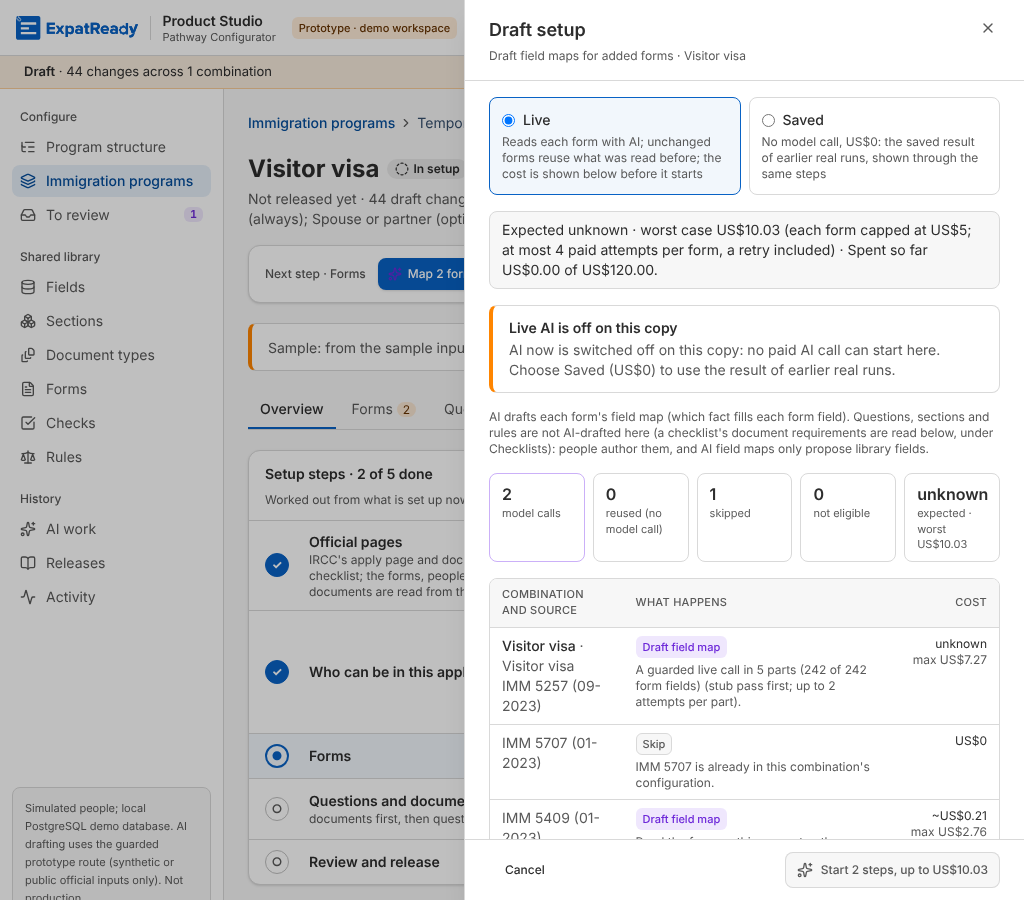
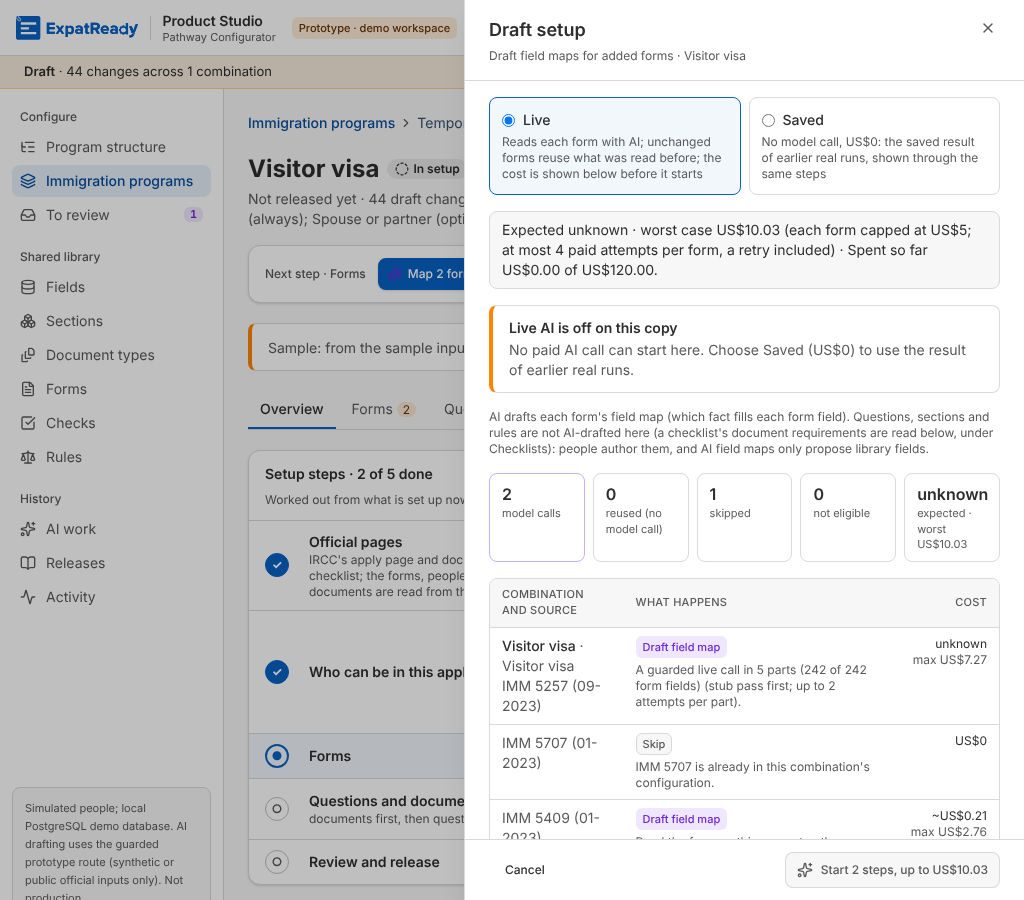
forms: C11.8 — break m1: the Forms tab's Draft with AI dialog offers no live start on a live-off copy; review m3: the notice says it once; review and break reports
Claude-Session: https://claude.ai/code/session_01MXNda9C82EkcbCk4EQvfnS

Changed region(s): [[0.5, 0.3733, 0.9375, 0.4356]]

diff --git a/ai-workers/problem-1-pathway-setup-and-form-filling/prototype/studio/web/src/pages/sources.tsx b/ai-workers/problem-1-pathway-setup-and-form-filling/prototype/studio/web/src/pages/sources.tsx
@@ -8,6 +8,7 @@ import { Link, useSearchParams } from "react-router-dom";
 import { Play, Recycle, ScanLine, Sparkles } from "lucide-react";
 import { api, ApiError, useAction, useApi, useSessionView, useToast } from "@/lib/api";
 import { Button, Dialog, Field, Notice, Pill, Select } from "@/components/ui/controls";
+import { LIVE_OFF_NEXT } from "@/components/ai-launch";
 import { ModePill, StatusPill } from "@/pages/combination";
 import { fmtWhen } from "@/components/status";
 import { useQuery, useQueryClient } from "@tanstack/react-query";
@@ -131,7 +132,7 @@ function DraftDialog({ a, onClose }: { a: Attachment; onClose: () => void }) {
   // carries the same cost check: over a limit, the cost warning first (Continue or Cancel), as on Draft setup. The plan is
   // made when Live is chosen, so the click opens the warning at once. The server checks everything again.
   const scope = { kind: "source" as const, ids: [a.id] };
-  const plan = useQuery<{ cost_check: CostCheck; run_key: string; plan_sha256: string }>({ queryKey: ["ai-plan", "source", a.id, "LIVE", true], queryFn: () => api("/ai/plan", { method: "POST", json: { scope, mode: "LIVE", draftAgain: true } }), enabled: mode === "live", staleTime: 0, retry: false });
+  const plan = useQuery<{ cost_check: CostCheck; run_key: string; plan_sha256: string; live?: { on: boolean; blocked: boolean } }>({ queryKey: ["ai-plan", "source", a.id, "LIVE", true], queryFn: () => api("/ai/plan", { method: "POST", json: { scope, mode: "LIVE", draftAgain: true } }), enabled: mode === "live", staleTime: 0, retry: false });
   const cost = useCostGate();
   // One launch key per dialog: a retry after Continue (or a double click) returns the same run, never a second one.
   const [key] = React.useState(() => (globalThis.crypto?.randomUUID?.() ?? `k-${Date.now()}-${Math.random().toString(36).slice(2)}`));
@@ -156,13 +157,17 @@ function DraftDialog({ a, onClose }: { a: Attachment; onClose: () => void }) {
     } finally { setBusy(false); }
   };
   const l = opts.data?.ledger;
+  // C11.8 (P-175, break m1): on a copy without the live switch a live draft that would call the model is not offered here
+  // either (as Draft setup); the server refuses it at the door.
+  const liveOff = mode === "live" && plan.data?.live?.blocked === true;
   return (
     <Dialog open onOpenChange={(o) => !o && onClose()} title={`Draft the field map of ${a.edition}`} description="The AI reads the list of the form's fields (public official content only) and proposes, for every form field, whose fact fills it and which library field it is. People decide every proposal before anything reaches the draft."
-      footer={<><Button variant="ghost" onClick={onClose}>Cancel</Button><Button onClick={() => void start()} busy={busy} disabled={nothingToStart(mode) || (mode === "live" && plan.isFetching)} aria-describedby={nothingToStart(mode) ? "draft-none" : undefined} data-draft-start data-mode={mode} data-options-loaded={opts.isSuccess || opts.isError ? "true" : "false"} data-start-ready={!busy && (opts.isSuccess || opts.isError) && !(mode === "live" && plan.isFetching) && !nothingToStart(mode) ? "true" : "false"}><Play /> {mode === "replay" ? "Use Saved (US$0)" : "Start Live"}</Button></>}>
+      footer={<><Button variant="ghost" onClick={onClose}>Cancel</Button><Button onClick={() => void start()} busy={busy} disabled={nothingToStart(mode) || liveOff || (mode === "live" && plan.isFetching)} aria-describedby={nothingToStart(mode) ? "draft-none" : undefined} data-draft-start data-mode={mode} data-options-loaded={opts.isSuccess || opts.isError ? "true" : "false"} data-start-ready={!busy && (opts.isSuccess || opts.isError) && !(mode === "live" && plan.isFetching) && !nothingToStart(mode) ? "true" : "false"}><Play /> {mode === "replay" ? "Use Saved (US$0)" : "Start Live"}</Button></>}>
       <div className="space-y-3 text-sm">
         <label className="flex items-start gap-2"><input type="radio" checked={mode === "live"} onChange={() => setMode("live")} className="mt-1" disabled={liveClosed} /><span>{liveClosed ? <><b>Live</b>: not open yet for a form approved in the product (only for files on the official list); use Saved when there is one.</> : <><b>Live</b> through the guarded route: a safety check first, then Claude Opus 5.5, up to US$5 for this run. {/* Break 3 m2: what is left is the smaller of the cap's and the wave's room: both are named. */}{l ? `Spent so far US$${l.committed_usd.toFixed(2)} of the US$${l.cap_usd.toFixed(2)} experiment cap${l.wave ? ` · ${l.wave.name}: US$${l.wave.spent_usd.toFixed(2)} of US$${l.wave.cap_usd.toFixed(2)}` : ""}; US$${Math.max(0, l.remaining_usd).toFixed(2)} left before a cap.` : ""} {opts.data && !opts.data.key_present ? <span className="text-text-danger">The API key file is missing: a live call will be refused.</span> : null}</>}</span></label>
         <label className="flex items-start gap-2"><input type="radio" checked={mode === "replay"} onChange={() => setMode("replay")} className="mt-1" disabled={!saved.length} /><span><b>Saved</b> (no model call, US$0): an earlier real answer for this same form, checked with today's rules before use and labelled wherever it is shown.{saved.length ? <Select className="mt-1" value={runFile} onChange={(e) => setRunFile(e.target.value)}>{saved.map((r) => <option key={r.file} value={r.file}>{r.run_id} · {r.at?.slice(0, 16)} · paid US${r.cost_usd?.toFixed(2)} then{r.recheckable ? " · re-checked first" : r.rechecked ? " · re-checked" : ""}</option>)}</Select> : <span className="block text-xs text-text-muted">No saved AI answer for this form yet.</span>}</span></label>
         {opts.isSuccess && nothingToStart(mode) ? <p id="draft-none" className="text-sm" role="status" data-draft-none>Nothing can start for this form yet: {liveClosed ? "Live is not open for it" : "it has no Saved result, so choose Live"}{liveClosed && !saved.length ? ", and it has no Saved result" : ""}.</p> : null}
+        {liveOff ? <Notice tone="warn" title="Live AI is off on this copy">{LIVE_OFF_NEXT}</Notice> : null}
         {cost.dialog}
         <Field label="Job" hint="Inputs: this form's inventory only (allowlisted); expected answers and family values are screened out of the prompt."><code className="mono block rounded bg-surface px-2 py-1">{opts.data?.job_id}</code></Field>
       </div>

diff --git a/ai-workers/problem-1-pathway-setup-and-form-filling/prototype/studio/web/src/components/ai-launch.tsx b/ai-workers/problem-1-pathway-setup-and-form-filling/prototype/studio/web/src/components/ai-launch.tsx
@@ -12,6 +12,8 @@ import { Spinner } from "@/components/ui/spinner";
 import { cn } from "@/lib/utils";
 import { useCostGate } from "@/components/cost-warning";
 import { COST_WORDS } from "../../../contracts/cost-check";
+/** C11.8 (review m3): the live-off notice under its title "Live AI is off on this copy": what cannot start and the free choice. */
+export const LIVE_OFF_NEXT = "No paid AI call can start here. Choose Saved (US$0) to use the result of earlier real runs.";
 
 export type AiScope = { kind: "catalogue" | "program" | "combination" | "source"; ids: string[]; label?: string };
 const MODES = [
@@ -72,7 +74,7 @@ export function AiLaunchDialog({ scope, onClose, initialMode = "LIVE" }: { scope
           ))}
         </fieldset>
         {p ? <p className="rounded-lg border border-border bg-surface px-3 py-2 text-sm" data-cost-line>{mode === "LIVE" ? <>Expected {p.totals.expected_usd === null ? "unknown" : `US$${p.totals.expected_usd.toFixed(2)}`} · worst case US${p.totals.worst_usd.toFixed(2)} (each form capped at US${p.per_run_cap_usd}; at most {p.max_paid_attempts_per_form} paid attempts per form, a retry included) · Spent so far US${p.ledger.committed_usd.toFixed(2)} of US${p.ledger.cap_usd.toFixed(2)}.</> : mode === "REPLAY" ? "Saved: no model call, US$0." : "Stub pass: no network, no cost, no AI content."}</p> : null}
-        {liveOff ? <Notice tone="warn" title="Live AI is off on this copy">{p.live.why}</Notice> : null}
+        {liveOff ? <Notice tone="warn" title="Live AI is off on this copy">{LIVE_OFF_NEXT}</Notice> : null}
         {p ? <p className="text-xs text-text-muted">{p.capability_note}</p> : null}
         {plan.isLoading ? <Spinner label="Working out what would run" /> : plan.isError ? <Notice tone="danger" title="The plan could not be made">{(plan.error as Error).message}</Notice> : p ? (
           <>

diff --git a/ai-workers/problem-1-pathway-setup-and-form-filling/product/screens/C11.8-run-trust/review-2026-11-02.md b/ai-workers/problem-1-pathway-setup-and-form-filling/product/screens/C11.8-run-trust/review-2026-11-02.md
@@ -1,0 +1,52 @@
+# C11.8 run trust — review of claude/inspiring-fermi-8kyot6 at 8bc48cf1 (base 55376830)
+
+Reviewer: a fresh agent that did not build this. 2 Nov 2026. Own copies `rv118a` :4455 and `rv_cw`/`rv_co` :4456 (fake launcher, no live switch, scratch ledger, US$0); all stopped. Journey test: `journey-test-reviewer-2026-11-02.md` (9.0/10, pass). Earlier review of the prior build: `review.md` (m1–m4).
+
+**Verdict: Block** (one Major: spend-guard test coverage silently dropped; the product code is sound). Rest: Minors.
+
+## What I ran
+* `check_forms_c118_acceptance.ts` on my copy: **18 pass, 0 fail, 2 skipped** (AT-9c, AT-10a), as claimed. `check_forms_c118_words.ts` 7/7.
+* `check_cost_override.ts` (the builder could not run it): on :4456, own scratch ledger: **57 pass, 0 fail, 18 skipped**, exit 0. `check_cost_warning_browser.cjs`: **6 pass, 0 fail, 10 skipped**.
+* Graph `--check`: G1 0 · G2 0 · G3 7 · G4 0 · G5 0 · G6 3 (G3/G6 not from this item). The new test is picked up by `run-suites.sh` through its usage line (matches the regex).
+* Browser: Visitor visa › Map 2 forms › Draft setup at 1440, 1024, 512 px (200 % zoom), keyboard on the radios; failed run page `/ai/:id` and its Retry.
+
+## Previous minors, each really fixed
+* **m1 retry door: fixed.** `Ai.retry` refuses a LIVE field-map step that would call the model (`ai.ts` last check before the transaction; 409 in words, nothing queued, no attempt counted). AT-3b proves both sides (live step refused with the switch off; a free stub step still retried 201). Cost refusals keep their own words (door is last).
+* **m2 labels for field maps only: fixed.** `runs.ts nextOf` returns "Retry the failed step" / "Decide the step waiting for you" only for `draft_field_maps` and only for FAILED / NEEDS_PERSON; BLOCKED and every other operation keep "See the details" or their own branch.
+* **m3 notice names Saved: fixed.** Notice and API say "Choose Saved (US$0) to use the result of earlier real runs"; no "rules only".
+* **m4 latest attempt and page line: fixed.** After one Retry on my copy the run view named attempt 2's failure and the AI work page shows "What went wrong" (screenshot `run-failed.png`); the unit check covers latest-attempt, retried-then-done (no error) and two forms.
+
+## Answers to the lead's questions
+**Can any path still queue, reserve or use a Continue for a live field-map model call on a copy without the switch? No.**
+* Every creator of a field-map job goes through `launch()` (`launchSource` → `launch`) or `retry()`; the other `draftingJob.create` sites are STUB/LOCAL/REPLAY or other operations (finder, Who, QD, PQR, checklist).
+* The door sits after the cost refusals and before the transaction, where the Continue is used and the batch/jobs are made. I checked on :4455: LIVE + draft again → 409 "switched off", no batch added.
+* Behind it, `launchOnce` still refuses live without the switch (`sources.ts:467`), so a step already queued earlier cannot spend either.
+* A Continue is still **recorded** by `POST /ai/overrides` with the switch off (AT-9 asserts it); it is never used or charged, and expires. Fine for the done-when (ledger spend unchanged), noted as a Minor.
+
+**Is a free path wrongly refused? No.** On :4455 with the switch off: LIVE without "draft again" on a form with a saved answer: plan `blocked:false`, launch 201, ran Done at US$0; library reuse and Saved (REPLAY) plans `blocked:false`; the Stub pass starts. A form whose parts all have saved answers has worst 0 and is not refused (the runner uses the saved parts and makes no call). A mixed catalogue scope (some saved, some needing a call) is refused whole in Live; the person picks Saved. Acceptable.
+
+**Test gating: this is a Major, not a Minor.**
+* About 18 PASS-equivalents in `check_cost_override.ts` (base had 68 checks, now 57 run) and 10 of 16 in the browser check become SKIP, which exit 0; AT-9c and AT-10a in the acceptance pack skip too. Result: **no CI test now runs** the queued run that carries a Continue, the Continue used once under a double click or two starts, the retry rules under a Continue (room left, other person, the US$132 ceiling), the Continue audit line, or the cost warning dialog Continue/Cancel/Escape/focus in a browser. These are the P-179 / P-194 spend-safety rules (a wrong rule here costs real money); today none of their tests would fail if the rule were removed.
+* P-192 (founder, 31 Oct) explicitly allows pairing `STUDIO_AI_LIVE=approved` with the fake launcher in a test's own start/usage line; 20+ checks do it (e.g. `check_ai_launch_paths.ts:45`, `check_forms_s4_runs.ts`), and the previous build of this row did it in `check_cost_warning_browser.cjs` (prior review: safe, queue held, scratch ledger, field-map calls only). The session rule "never set a STUDIO_*_LIVE switch" governs what the builder types, not what a check's own start line does; I see no reason the tests must lose coverage for it.
+* Fix: in both checks' own `isolated.sh … start`, pass `STUDIO_AI_LIVE=approved STUDIO_FAKE_LAUNCHER=<fixture>` (keep `STUDIO_HOLD_QUEUE=1` and the scratch ledger) so STANDIN is true; keep the door checks in the acceptance pack (which already covers them without the switch). The lead can downgrade this to a Minor only by recording a dated follow-up row that restores it; I would not accept a permanent SKIP.
+* Also unverified: the STANDIN branches of both checks have not run together with this door (the builder could not, I may not set the switch). Expect CI's first run with the pairing to be the proof.
+
+**State cascade in `check_cost_override.ts` when not STANDIN: sound, with one weak assertion.** I ran it green. After each `door()` the unused Continue is expired in the scratch ledger, so later sections that count unused Continues, held US$ or "this person's Continue" see none; later sections write their own ledger lines or Continues and do not depend on the skipped runs (`job1`, `batch1`, `batch3` live only inside the gated blocks). Weak spots: (1) "one click is one run: the same Continue again is refused" now asserts `/expired/` when not STANDIN (the Continue was expired by `door()`), so it tests expiry, not single use, under a "used" name; (2) "Continues whose runs were stopped hold nothing" is then trivially true (no Continue was used). Both are vacuous, not wrong; both disappear with the Major's fix.
+
+## Blocker
+None.
+
+## Major
+**M1. Spend-guard coverage turned into SKIPs** (above). `tests/check_cost_override.ts:50-62` (STANDIN gates), `tests/check_cost_warning_browser.cjs:60-80`, acceptance AT-9c/AT-10a. Fix as above.
+
+## Minor
+* **m1.** AT-8 text says "here by the switch first" but the code refuses by the cost limit first (door is after the cost refusals); the assertion only checks `status >= 400` when not STANDIN, so it does not pin which refusal. Pin `/limit|cap|Continue/` in both modes.
+* **m2.** `POST /ai/overrides` records a Continue with the switch off. Harmless (unused, 10 minutes), but the Continue endpoint could say "AI is switched off" too so no one holds a Continue for a start that cannot run. Not required by the done-when.
+* **m3.** Words: "AI now is switched off on this copy" repeats the notice title "Live AI is off on this copy" right above it; "AI now" is the finder's phrase, kept for consistency. Say it once.
+* **m4.** The failed-run error text from the fake launcher ends with a raw newline (`what` = "...US$0).\n"); trim step messages in `errorWhat`. On the AI work page the count line "0 done, 1 failed, 0 cancelled" still shows under "What went wrong"; harmless.
+* **m5.** `ai.ts` retry door uses `RUN_CAP_USD` when the step's target is not in the plan; safe (refuses), but a LIVE step with no plan target and a full-reuse form would be refused too. Edge only.
+
+## What I could not check
+A real screen reader; an intended user's unaided walk (D17/D20 stay with the founder); any live-on behaviour (never set the switch): the queued-with-Continue paths, `launchSource` under a live copy, the web Continue dialog; CI on this commit.
+
+**Verdict: Block** — fix M1 (restore the spend-guard checks via the P-192 pairing in the two checks' own start), then Approve.

diff --git a/ai-workers/problem-1-pathway-setup-and-form-filling/product/screens/C11.8-run-trust/break-report-2026-11-02.md b/ai-workers/problem-1-pathway-setup-and-form-filling/product/screens/C11.8-run-trust/break-report-2026-11-02.md
@@ -1,0 +1,57 @@
+# C11.8 break report, 2 Nov 2026
+
+Target: branch `claude/inspiring-fermi-8kyot6` at 8bc48cf1 (base 55376830). Copy `brk118` on :4457, fake launcher, `STUDIO_AI_LIVE` unset, scratch ledger (`P2_LEDGER_DIR`), US$0. Nothing priced was clicked. Copy stopped at the end. Code untouched.
+
+**Verdict: the door holds.** No Blocker, no Major. Four Minors; none lets a paid call or a charge through.
+
+## Evidence of "nothing charged"
+* Fake launcher log: 0 lines with `"mode":"live"`, 20 `"mode":"stub"` (all from my own stub runs).
+* Scratch ledger: no `reserve` or `override_use` line from any refused attempt. I seeded one `reserve` line (116.4) and recorded one Continue on purpose, then emptied the file; it ended 0 bytes.
+* `ai_batch` / `drafting_job` counts did not move after any refusal (checked after each batch of attempts).
+* `GET /api/session` still says `ai: { live: false, launcher: "stand-in" }` after `?ai=live`, `?STUDIO_AI_LIVE=approved`, an `x-ai-live` header, and POST/PATCH `/session` (both 404).
+
+## Minor
+**m1. The source-level "Draft the field map" dialog still offers an enabled "Start Live" on a live-off copy.**
+* Do: open `/c/<Visitor visa>/forms?draft=<IMM 5257 attachment>`, choose Live (radio), read the footer. Do not click Start.
+* Expected (door rule, J2 step 10): Live's Start not offered, with the switch-off words.
+* Actual: "Start Live" enabled, `disabled={nothingToStart(mode) || (mode==="live" && plan.isFetching)}`. The only warning is the old red "The API key file is missing: a live call will be refused", not the switch. The server still refuses the click (409), so no money moves. Screenshot: `.../scratchpad/shots/live-selected.png`.
+* Where: `web/src/pages/sources.tsx:161` (the plan it already fetches at :133 carries `live.blocked`, unused).
+* Why it matters: this is the other person path that reaches `launchSource` and it was left on the old behaviour; the one rule is applied only in `ai-launch.tsx`.
+
+**m2. A Continue (P-179) can be recorded for a start that can never run, with an audit line saying so.**
+* Do: seed the scratch ledger near the cap; `POST /api/ai/plan` (source IMM 5257, LIVE, draftAgain) shows `live.blocked: true` and `cost_check.can_continue: true`; then `POST /api/ai/overrides` as user-A with that plan's run_key.
+* Expected: nothing recorded for a start the door will refuse (or the same 409 words).
+* Actual: 201, `override` line in the ledger, audit event `ai_override` ("chose Continue past experiment ... worst case US$7.27"). The following live start is refused 409 and the Continue is left unused (no `override_use`: that part holds), but it sits valid for 10 minutes and the activity log claims a person continued past the cap.
+* Where: `api/src/ai.ts` `override()` (~line 350) has no `aiLive()` check. In the m1 dialog a person can reach it by clicking Start Live over the cap, then Continue.
+
+**m3. A failed step's next step says "Retry the failed step" when Retry is refused.**
+* Do (a): fail a step 3 times (stub fails on purpose; set `attempt=3` by SQL). `GET /api/runs/<id>` → `error.next` = "Retry the failed step". `POST /ai/batches/<id>/retry` → 400 "reached 3 attempts; needs a person".
+* Do (b), by reading: a LIVE failed step on a live-off copy with no saved answer gets the same label, and `ai.tsx:85` shows "Retry N failed step" (`j.retryable` knows nothing of the switch); the click is a 409. With a valid saved answer the run correctly says "Use Saved for IMM 5257 (US$0)" instead (I saw this).
+* Where: `api/src/runs.ts:120` (label chosen from status only); `web/src/pages/ai.tsx:85`.
+
+**m4. A mixed failed batch cannot retry its free step, and the failure text repeats.**
+* Do: failed LIVE field_map step (plan worst 1.5) plus a failed REPLAY step in one batch, no switch; `POST .../retry` → 409 switched off for the whole retry; nothing queued. The free step is stuck until the paid one is dealt with. Rare (needs an older live batch on a copy whose switch is now off). `api/src/ai.ts:505` uses `redo.some(...)`.
+* Also: the "What went wrong" line is the step's whole message, so a 5-part failure prints the same part error five times, and again in the table and the parts table (screenshot `.../scratchpad/shots/p200-ai.png`). Readable, no overflow at 1024 or 512 px (200 %), but long. French and Japanese text show correctly.
+
+## Observed, not C11.8 (pre-existing, not counted)
+* `POST /api/attachments/:id/draft` with an empty body, or `{"mode":["live"]}`, answers 500 instead of 400 (`ai.ts` launchSource reads `b.mode` / `mode.toUpperCase()`).
+* `POST .../retry` on a batch whose plan has no `targets` key answers 500 (`ai.ts:~478` `worstEach.find` without `?.`); makes the new `?.` at :505 unreachable in that case. Not reachable from the app.
+* `GET /api/ai/batches/:id` still returns the raw job `message` (paths, a fake key string) in `jobs[].message`; the page uses the cleaned `said`, so the screen is fine. The cleaner (`plain-run-text.ts`) does not catch a key-looking string with no path.
+
+## What held
+* LIVE start refused 409 with the plain switch-off words, nothing queued: source, combination, catalogue (2 combinations) and program scope; mixed (1 draft + reuse) catalogue/combination refused as a whole.
+* `/attachments/:id/draft` `mode:"live"`: plain, with `overrideId` (valid Continue, bad id, empty id), replayed key, a key reused on another form, six concurrent identical requests: all 409 (the free IMM 5707 library reuse on the same key started normally, 201, US$0).
+* Valid Continue then live start (both endpoints): 409; ledger had no `override_use`.
+* Mode casing `live`, `Live`, ` LIVE`, `LIVE `: 400 on `/ai/batches`; `LIVE` is the only live word. `/draft` accepts lower case only and upper-cases it.
+* Roles: reviewer, approver, client 403 on start, retry and draft; no actor 401; `GET /ai/plan` is open to a reviewer and reads only.
+* Free paths stay free and allowed with the switch off: LIVE without draftAgain (plan `reuse_saved_output`, `blocked:false`, batch started, REPLAY job, US$0); LIVE on a combination of library reuse only (201); REPLAY; STUB.
+* Cost refusals keep their own words and come first (AT-8 order); a stale plan sha is 409 "work changed" before the door.
+* Retry: LIVE failed step with plan worst 1.5, worst_usd missing, or targets `[]`: 409 switched off (3 repros), nothing queued, no launcher call. LIVE step with plan worst 0: retried (201, free). STUB failed step: retried and the run view names the latest attempt's failure.
+* Run view words: stderr containing a Python traceback, `/Users/...`, `/home/...`, ENOENT, a script tag and an API-key string is replaced by the plain sentence in `GET /api/runs/:id` and on `/ai/:id` ("What went wrong"); no path or stack on the screen.
+* Callers of the launcher: only `main.ts:109` (draft) and `:137` (batches), plus demo REPLAY loads; all go through `launch()`. Retry is the only other place that queues LIVE field-map jobs (`ai.ts:513`). The backstop `launchOnce` (`sources.ts:467`) is still there.
+* Browser, 1024 px and 512 px (200 % zoom): no horizontal scroll; keyboard tab order cycles inside the dialog (radio, Saved select, Cancel, primary, Close).
+
+## Not tested
+* The `ai-launch.tsx` panel itself in a browser (Draft setup from the combination): plan `live.blocked` seen via API for all scopes; I did not open the panel (the reviewer did on 1 Nov).
+* 100 programs / 400 combinations: the diff adds no loops; sample has 6 combinations. A genuine all-reused LIVE draft (worst 0) cannot be made in this sample, so launch-side "all reused" was tested only via retry with an edited plan.
+* Live-on copy behaviour (forbidden), and the stand-in section of the acceptance check.

diff --git a/ai-workers/problem-1-pathway-setup-and-form-filling/product/screens/C11.8-run-trust/journey-test-reviewer-2026-11-02.md b/ai-workers/problem-1-pathway-setup-and-form-filling/product/screens/C11.8-run-trust/journey-test-reviewer-2026-11-02.md
@@ -1,0 +1,40 @@
+# C11.8 run trust — journey test, reviewer role, 2 Nov 2026
+
+Commit 8bc48cf1. Own copies :4455/:4456 (fake launcher, no live switch, scratch ledger, US$0), all stopped. Browser: Chrome headless via Playwright (a script, not a visible pane: this environment has none), plus API reads for the data underneath. Not run: any live-on journey (never set the switch).
+
+## Journeys (persona: configuration author)
+1. **Main:** Visitor visa › Map 2 forms › Draft setup with the switch off, default Live. Expected: a form with a saved answer starts at US$0.
+2. **Alternate:** tick "Draft again" (a paid call is now needed). Expected: the panel says live is off, Start disabled, Saved offered.
+3. **Recovery:** choose Saved by keyboard (Space on the radio). Expected: notice goes, Start enabled at US$0.
+4. **Error:** a draft fails (stub); open its AI work page. Expected: what went wrong in words, one way out.
+5. **Recovery 2:** Retry the failed step. Expected: attempt 2 queued, the page names the latest failure.
+6. **Break it:** API start of a live draft with the switch off, with and without a Continue; Retry of a live step (pack AT-3b); Continue by a reviewer/approver/client (403).
+7. **Wrong role / double click:** covered by the acceptance pack (AT-6, AT-9) and an idempotency key reused (returns the same run).
+
+## What held
+* J1: Start enabled "Start 2 steps, US$0", no notice; the saved-answer run on the API went Done, spent US$0.00, no error line.
+* J2: notice "Live AI is off on this copy" plus "Choose Saved (US$0) …", Start disabled (screenshot `off-1440.png`); API twin: 409 in the same words, batch count unchanged.
+* J3: keyboard only, notice gone in 1 s, Start "Start 2 steps, US$0".
+* J4/J5: "What went wrong: AI drafts the form's field map: stub pass failed: …" with a "Retry 1 failed step" button; after Retry the run shows 2 steps and still names the failure. No sideways scroll at 512 px (200 % zoom of 1024). No page errors.
+* Data underneath: ledger unchanged (acceptance AT-13 byte compare), no reserve lines, launcher log has no live call, no batch created by a refused start.
+
+## Findings
+* Minor: the notice repeats itself ("Live AI is off…" / "AI now is switched off…").
+* Minor: error text carries a trailing newline; the count line stays under "What went wrong".
+* Major (tests, not the user path): the spend-guard checks for Continues and their retries, and the cost warning dialog walk, now SKIP in CI; see `review-2026-11-02.md` M1.
+
+## Score (each 0, ½ or 1)
+| Criterion | Score | Evidence |
+|---|---|---|
+| Task completed | 1 | free saved start works; paid start refused with the free choice named |
+| Next step obvious | 1 | notice names Saved; failed run has Retry |
+| Plain words | ½ | duplicate and "AI now" phrasing; otherwise plain |
+| Feedback and state | 1 | notice appears/clears with the choice; run page shows the failure |
+| Correct data | 1 | nothing queued, ledger unchanged, latest attempt named |
+| Error recovery | 1 | Retry works (free steps), live retry refused in words |
+| Accessibility and sizes | ½ | builder's axe on the dialog passes (I re-ran it), keyboard OK, no scroll at 512 px; I did not axe the run page |
+| Speed | 1 | all views under 2 s |
+| Visual quality | 1 | team look, danger notice and disabled Start clear at 1440 and 1024 |
+| Trust and sources | 1 | the AI-off state is said before anything starts; no paid call possible |
+
+**Score: 9.0 / 10 (pass, no criterion at 0).** The Block verdict comes from the test-coverage Major, not the user path. Cannot test: real screen reader, intended user's unaided walk (D17/D20 stay with the founder), any live-on run.
